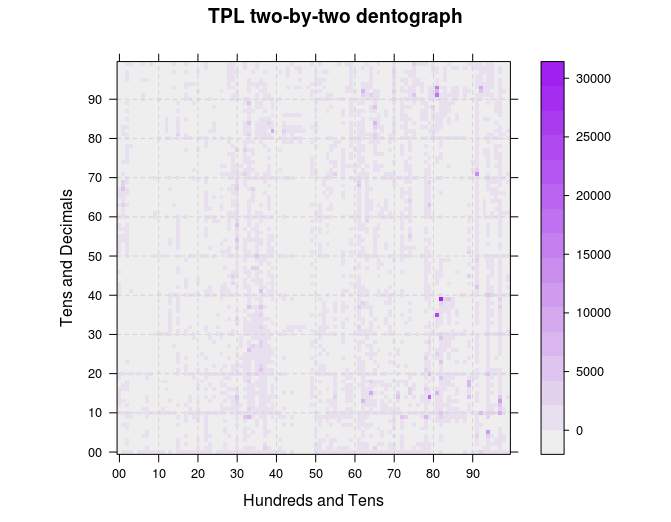
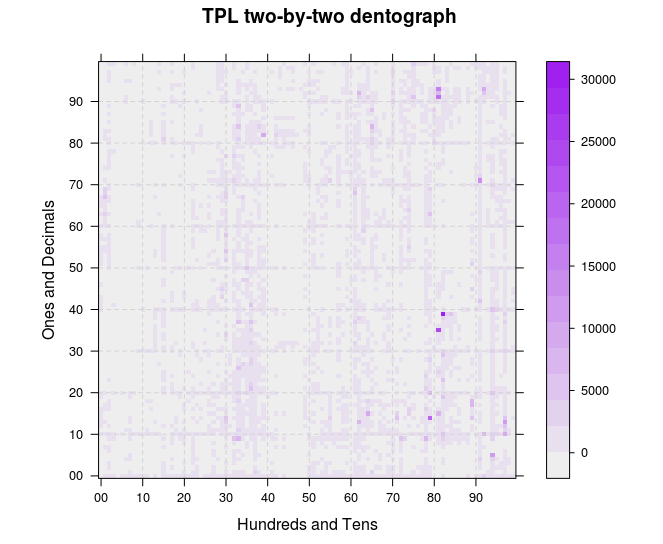
Regenerated TPL two-by-two image

diff --git a/dentograph-paper.html b/dentograph-paper.html
@@ -287,8 +287,6 @@ V1      0     1     2     3     4     5     6     7     8     9
    )
 </code></pre>
 
-<p>!!! TODO Regenerate so it says "Ones and decimals on y-axis"</p>
-
 <p><img src="images/tpl-two-by-two-dentograph.png" alt="Toronto Public Library two-by-two checkerboard dentograph" title="" /></p>
 
 <p class="caption">Figure 6. Toronto Public Library two-by-two checkerboard dentograph</p>

diff --git a/index.html b/index.html
@@ -300,8 +300,6 @@ V1      0     1     2     3     4     5     6     7     8     9
    )
 </code></pre>
 
-<p>!!! TODO Regenerate so it says "Ones and decimals on y-axis"</p>
-
 <p><img src="images/tpl-two-by-two-dentograph.png" alt="Toronto Public Library two-by-two checkerboard dentograph" title="" /></p>
 
 <p class="caption">Figure 6. Toronto Public Library two-by-two checkerboard dentograph</p>
